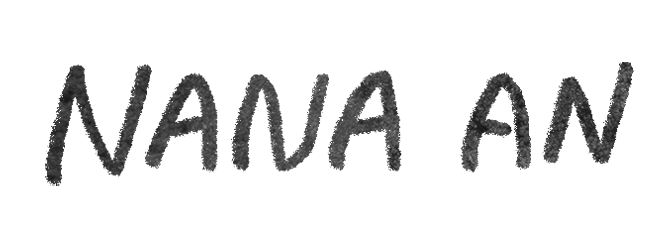
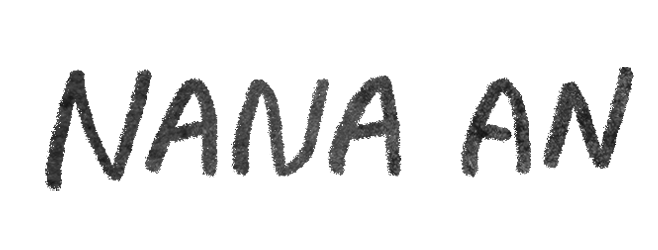
desktop menu is wider and bigger and has better spacing; mobile now has white bg; image hover text is smaller and has more letter spacing;

Changed region(s): [[0.0608, 0.253, 0.6079, 0.7309], [0.6991, 0.253, 0.9726, 0.7028], [0.0608, 0.6466, 0.0912, 0.759]]

diff --git a/app/components/Navbar.jsx b/app/components/Navbar.jsx
@@ -7,19 +7,19 @@ const Navbar = () => {
   const [isMenuOpen, setMenuOpen] = useState(false);
 
   return (
-    <nav className="md:max-w-xl md:mx-auto mb-2 md:mb-16">
+    <nav className="mb-2 md:mb-16">
       <div className="flex content-center justify-between">
         <div className="flex items-center">
           <div className="flex flex-start items-center">
             <Link href="/">
               <img
-                src="/nav_1_NANA_2.png"
+                src="/nav_1_NANA.png"
                 alt="Nana An"
-                className="min-w-32 w-32 md:w-full"
+                className="w-32 md:w-full md:pr-6"
                 onMouseOver={(e) =>
-                  (e.currentTarget.src = "/nav_hover_1_NANA_2.png")
+                  (e.currentTarget.src = "/nav_hover_1_NANA.png")
                 }
-                onMouseOut={(e) => (e.currentTarget.src = "/nav_1_NANA_2.png")}
+                onMouseOut={(e) => (e.currentTarget.src = "/nav_1_NANA.png")}
                 onClick={() => {
                   setMenuOpen(false);
                 }}
@@ -28,8 +28,8 @@ const Navbar = () => {
               />
             </Link>
           </div>
-          <div className="hidden md:flex flex-end items-center ml-24 space-x-2">
-            <Link href="/">
+          <div className="hidden md:flex flex-end items-center md:ml-36 lg:ml-96">
+            <Link href="/" className="mr-4">
               <img
                 src="/nav_2_ART.png"
                 alt="Art"
@@ -39,7 +39,7 @@ const Navbar = () => {
                 onMouseOut={(e) => (e.currentTarget.src = "/nav_2_ART.png")}
               />
             </Link>
-            <Link href="/sketchbook">
+            <Link href="/sketchbook" className="md:mr-4 lg:mr-5">
               <img
                 src="/nav_3_SKETCH.png"
                 alt="Sketchbook"
@@ -49,7 +49,7 @@ const Navbar = () => {
                 onMouseOut={(e) => (e.currentTarget.src = "/nav_3_SKETCH.png")}
               />
             </Link>
-            <Link href="/about">
+            <Link href="/about" className="md:mr-6 lg:mr-8">
               <img
                 src="/nav_4_ABOUT.png"
                 alt="About"
@@ -59,7 +59,7 @@ const Navbar = () => {
                 onMouseOut={(e) => (e.currentTarget.src = "/nav_4_ABOUT.png")}
               />
             </Link>
-            <Link href="/shop">
+            <Link href="/shop" className="mr-2">
               <img
                 src="/nav_5_SHOP.png"
                 alt="Shop"

diff --git a/app/globals.css b/app/globals.css
@@ -2,30 +2,6 @@
 @tailwind components;
 @tailwind utilities;
 
-:root {
-  --foreground-rgb: 0, 0, 0;
-  --background-start-rgb: 255, 255, 255;
-  --background-end-rgb: 255, 255, 255;
-}
-
-@media (prefers-color-scheme: dark) {
-  :root {
-    --foreground-rgb: 255, 255, 255;
-    --background-start-rgb: 0, 0, 0;
-    --background-end-rgb: 0, 0, 0;
-  }
-}
-
-body {
-  color: rgb(var(--foreground-rgb));
-  background: linear-gradient(
-      to bottom,
-      transparent,
-      rgb(var(--background-end-rgb))
-    )
-    rgb(var(--background-start-rgb));
-}
-
 .masonry-grid {
   display: -webkit-box; /* Not Needed If  Autoprefixing */
   display: -ms-flexbox; /* Not Needed If Autoprefixing */

diff --git a/app/components/Art.jsx b/app/components/Art.jsx
@@ -27,7 +27,7 @@ const Art = ({ data }) => {
             width={500}
             height={500}
           />
-          <div className="opacity-0 group-hover:opacity-100 duration-300 absolute inset-0 flex justify-center items-center text-center text-lg text-black">
+          <div className="opacity-0 group-hover:opacity-100 duration-300 absolute inset-0 flex justify-center items-center text-center tracking-[.2em] text-black">
             {data.projectName.toUpperCase()}
           </div>
         </Link>

diff --git a/app/layout.js b/app/layout.js
@@ -34,7 +34,7 @@ export default function RootLayout({ children }) {
   return (
     <html lang="en" className={`${roboto_flex.variable} ${tinos.variable}`}>
       {hoveredImages.map((image) => {
-        return <link rel="preload" href={image} as="image" />;
+        return <link rel="preload" href={image} as="image" key={image} />;
       })}
       <meta name="google" content="notranslate"></meta>
       <body className="flex flex-col h-full md:max-w-7xl md:mx-auto p-2 md:p-16">

diff --git a/app/shop/page.jsx b/app/shop/page.jsx
@@ -1,7 +1,7 @@
 import React from "react";
 
 const ShopPage = () => {
-  return <div className="">SHOP</div>;
+  return <div className="">UNDER CONSTRUCTION</div>;
 };
 
 export default ShopPage;
